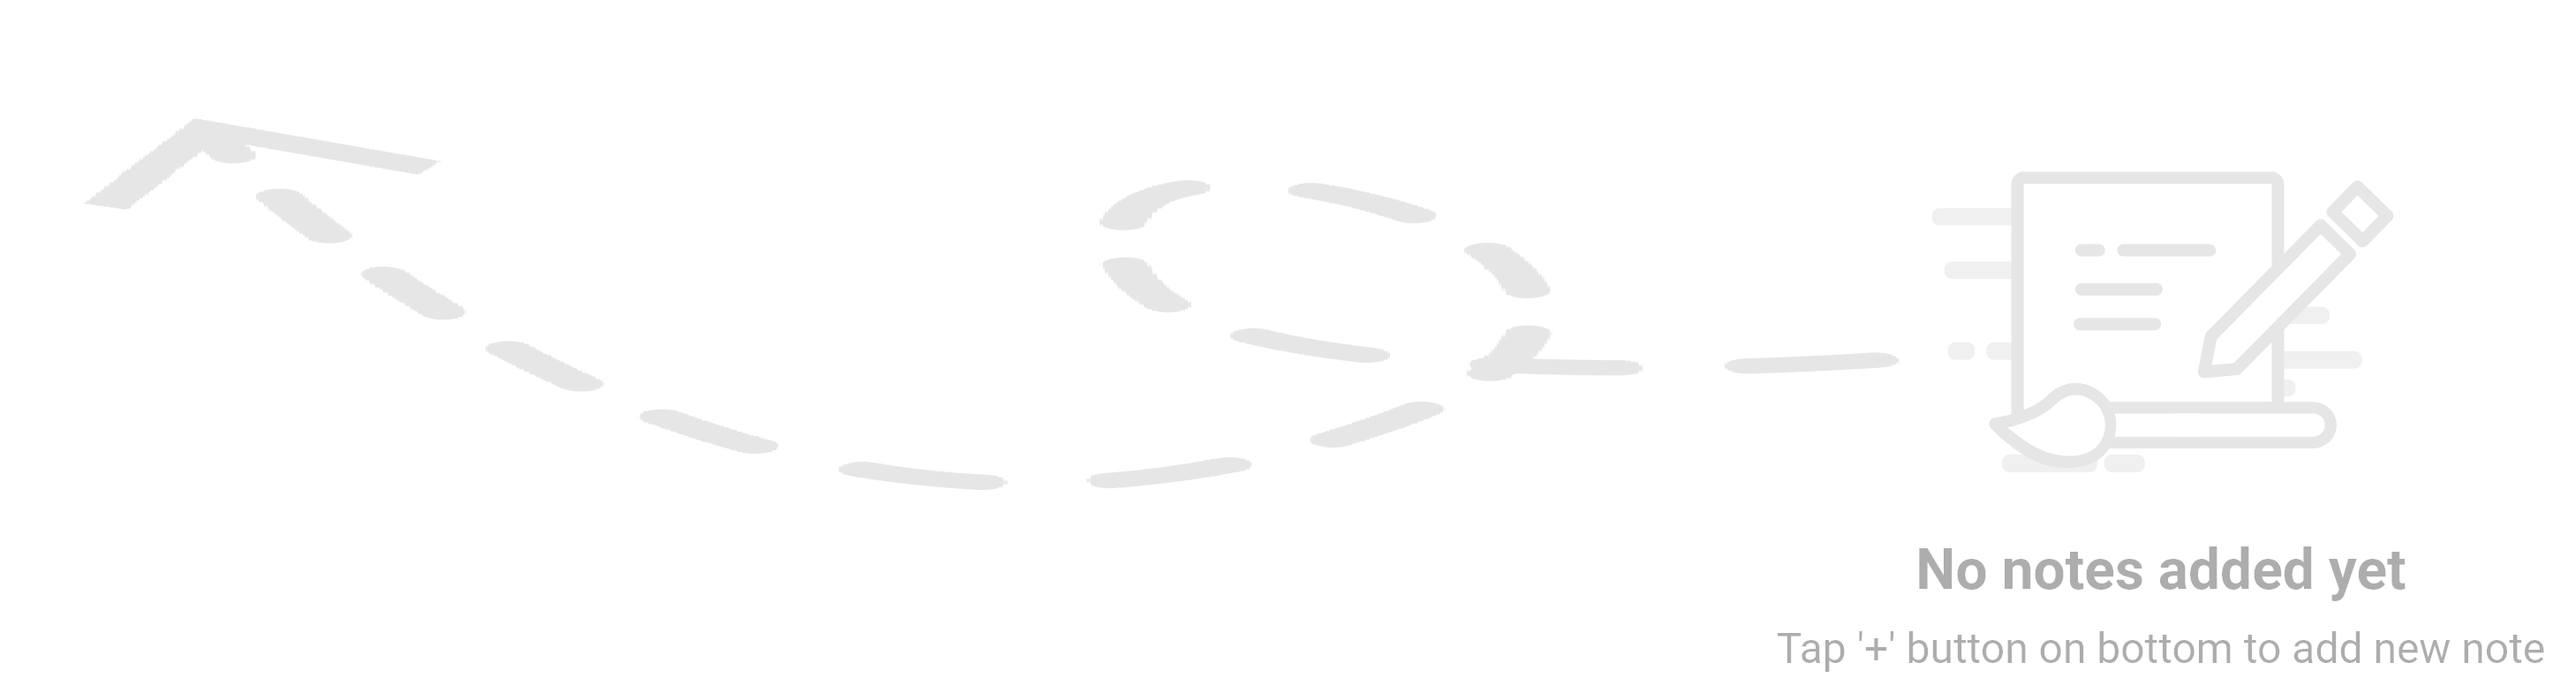
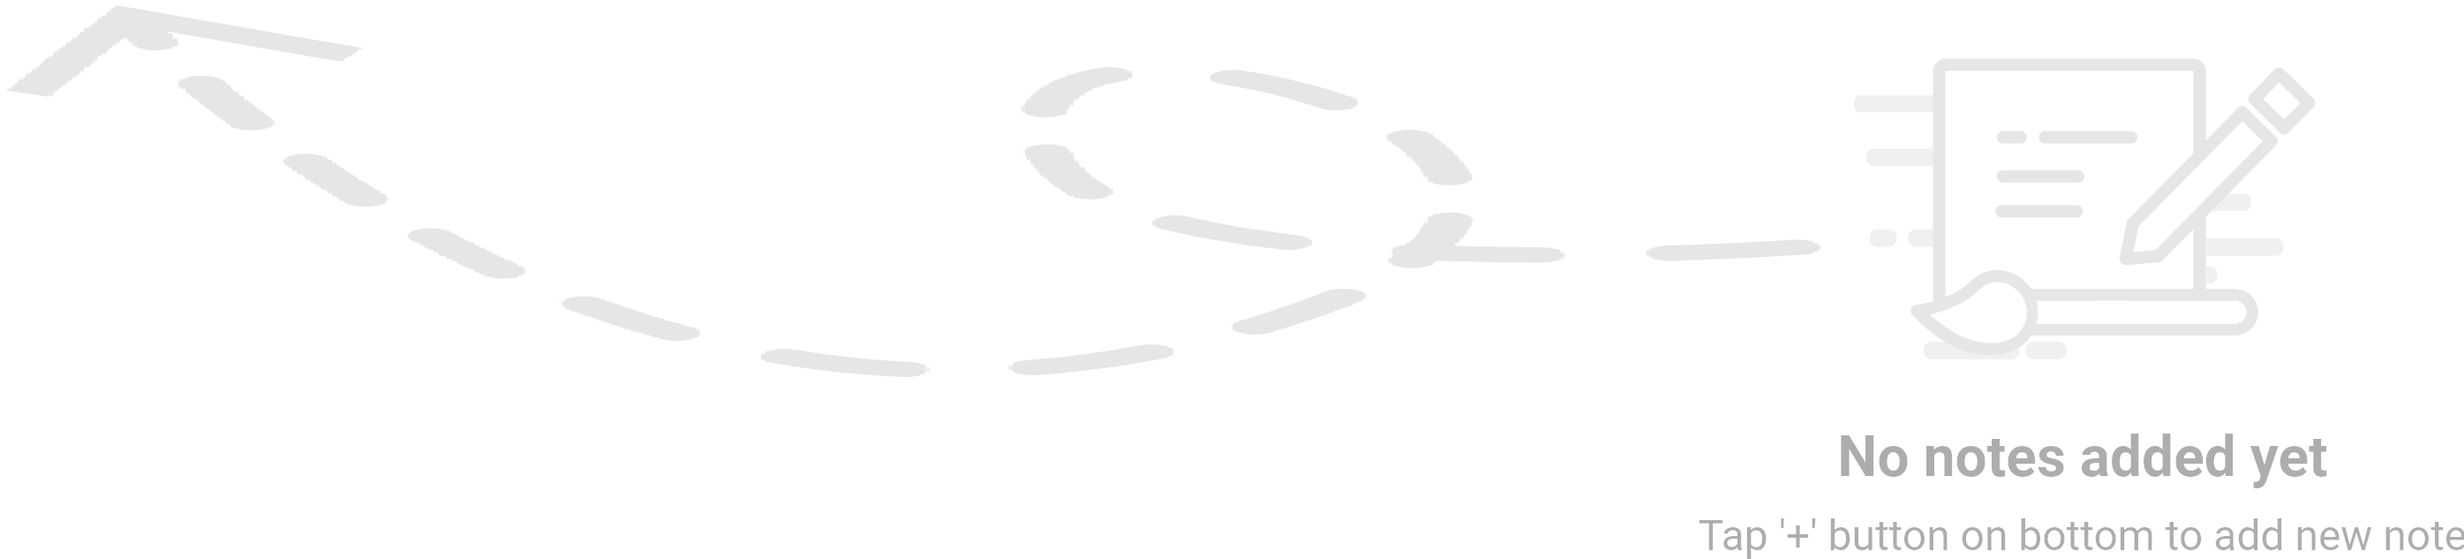
add a note image  added

diff --git a/src/components/Notes.js b/src/components/Notes.js
@@ -8,6 +8,7 @@ import { useNavigate } from "react-router-dom";
 
 const Notes = () => {
     const [note, setNote] = useState({ id: "", title: "", description: "", tag: "" });
+    const [addNoteImg, setAddNoteImg] = useState(false);
 
     const context = useContext(noteContext);
     const { notes, setNotes, fetchNotes, editNote, totalNotes } = context;
@@ -19,6 +20,8 @@ const Notes = () => {
 
 
     const refClose = useRef(null);
+
+
     useEffect(() => {
         if (localStorage.getItem("token")) {
             fetchNotes();
@@ -26,9 +29,80 @@ const Notes = () => {
         else {
             navigate("/login");
         }
-        // eslint-disable-next-line
-    }, [])
 
+
+
+        const updateImageMargin = () => {
+            const m1 = getComputedStyle(document.getElementsByClassName("container")[0]).marginLeft;
+            const m2 = document.getElementsByClassName("card")[0].offsetWidth / 2;
+            const img = document.getElementById("add_note_img");
+
+            img.style.marginLeft = parseInt(m1) + m2 + "px";
+        };
+
+        // Initial image margin setup
+        updateImageMargin();
+
+        // Attach the listener for window resize to update the image margin
+        window.addEventListener("resize", updateImageMargin);
+
+        // Clean up the event listener when the component unmounts
+        return () => {
+            window.removeEventListener("resize", updateImageMargin);
+        };
+        // eslint-disable-next-line
+    }, []);
+
+
+    useEffect(() => {
+        if (!addNoteImg) {
+            const root = document.getElementById("root");
+            const img = document.createElement("img");
+            img.src = require("./add_notes.png");
+            img.setAttribute("id", "add_note_img");
+
+            // const container = 
+
+
+            img.style.width = "40vw";
+            img.style.height = "40vh";
+            img.style.position = "absoolute";
+
+            root.appendChild(img);
+            setAddNoteImg(true);
+        }
+    }, [addNoteImg]);
+
+    useEffect(() => {
+        // const m1 = getComputedStyle(document.getElementsByClassName("container")[0]).marginLeft;
+        // const m2 = document.getElementsByClassName("card")[0].offsetWidth / 2;
+        // const img = document.getElementById("add_note_img");
+
+        // img.style.marginLeft = parseInt(m1) + m2 + "px";
+
+
+        const updateImageMargin = () => {
+            const m1 = getComputedStyle(document.getElementsByClassName("container")[0]).marginLeft;
+            const m2 = document.getElementsByClassName("card")[0].offsetWidth / 2;
+            const img = document.getElementById("add_note_img");
+
+            img.style.marginLeft = parseInt(m1) + m2 + "px";
+        };
+
+        // Initial image margin setup
+        updateImageMargin();
+
+        // Attach the listener for window resize to update the image margin
+        window.addEventListener("resize", updateImageMargin);
+
+        // Clean up the event listener when the component unmounts
+        return () => {
+            window.removeEventListener("resize", updateImageMargin);
+        };
+        // eslint-disable-next-line
+
+
+    }, []);
 
 
     const updateNote = (current_note) => {
@@ -72,10 +146,17 @@ const Notes = () => {
     }
 
     useEffect(() => {
+
+        const img = document.getElementById("add_note_img");
+
+
         const index = notes.length;
         const addNoteButton = document.getElementById("addNoteButton");
+        // const img = document.getElementById("add_note_img");
 
         if (index > 0) {
+
+            img.style.display = "none";
             const notesEle = document.getElementById("notes");
             const lastNote = notesEle.children[index - 1].firstElementChild;
             const height = lastNote.offsetHeight;
@@ -84,24 +165,24 @@ const Notes = () => {
 
             lastEle.style.maxHeight = height + "px";
 
-
             addNoteButton.children[0].style.height = 0.8 * height + "px";
         }
 
         else {
+            // <img src={require("./add_notes.png")} style={{ width: "40vw", height: "40vh", marginLeft: "7%" }} alt="" id='add_note_img' />
+
             addNoteButton.style.width = '10vw';
             const Card = document.getElementsByClassName("card")[0];
             Card.style.width = 'fit-content';
 
+            img.style.display = "block";
+
         }
     }, [notes]);
-
 
     return (
         <>
             <div className="container">
-
-
 
                 {/* Uncomment for old view --> */}
                 {/* <AddNote /> */}
@@ -168,8 +249,7 @@ const Notes = () => {
                     </div>
 
                 </div>
-                <img src={require("./add_a_note.png")} width={"100vw"} alt="" />
-
+                {/* <img src={require("./add_notes.png")} style={{ width: "40vw", height: "40vh", marginLeft: "7%" }} alt="" id='add_note_img' /> */}
 
             </div >
         </>

diff --git a/public/index.html b/public/index.html
@@ -28,7 +28,7 @@
 
   <script src="https://cdn.jsdelivr.net/npm/bootstrap@5.3.1/dist/js/bootstrap.bundle.min.js"
     integrity="sha384-HwwvtgBNo3bZJJLYd8oVXjrBZt8cqVSpeBNS5n7C8IVInixGAoxmnlMuBnhbgrkm"
-    crossorigin="anonymous"></script> 
+    crossorigin="anonymous"></script>
 </body>
 
 </html>
